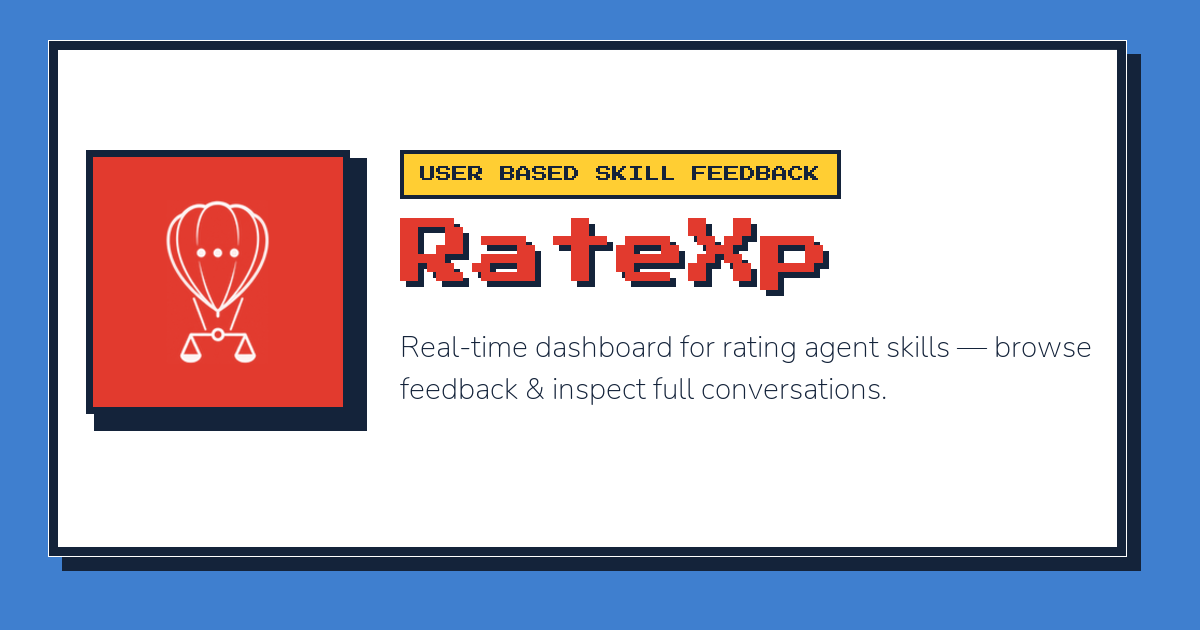
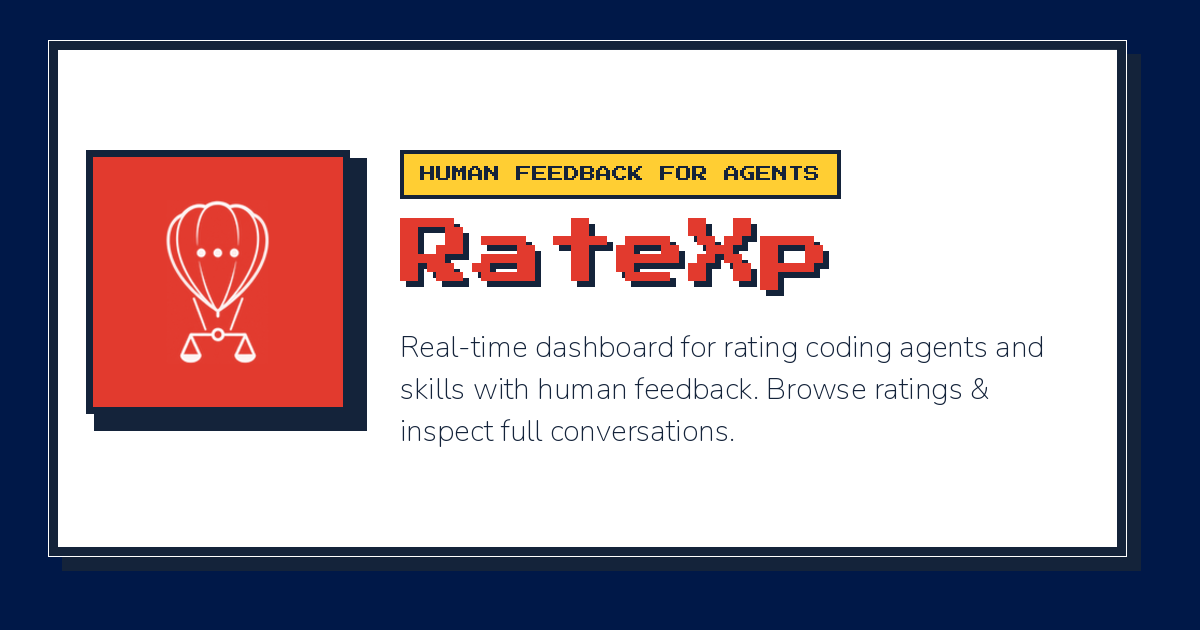
style: update og-image to human feedback for coding agents and skills on the app's navy background, and match the page descriptions

diff --git a/app/FE/index.html b/app/FE/index.html
@@ -12,7 +12,7 @@
     <title>RateXp Feedback</title>
     <meta
       name="description"
-      content="Real-time dashboard for rating agent skills - browse feedback, inspect full conversations, and see the top-rated skills."
+      content="Real-time dashboard for rating coding agents and skills with human feedback. Browse ratings, inspect full conversations, and see the top-rated skills."
     />
 
     <!-- Link-preview cards. Scrapers need a PUBLIC https url and ABSOLUTE image
@@ -23,7 +23,7 @@
     <meta property="og:title" content="RateXp - Skill feedback dashboard" />
     <meta
       property="og:description"
-      content="Real-time dashboard for rating agent skills - browse feedback, inspect full conversations, and see the top-rated skills."
+      content="Real-time dashboard for rating coding agents and skills with human feedback. Browse ratings, inspect full conversations, and see the top-rated skills."
     />
     <meta property="og:image" content="https://ratexp-app.azurewebsites.net/og-image.png" />
     <meta property="og:image:width" content="1200" />
@@ -35,7 +35,7 @@
     <meta name="twitter:title" content="RateXp - Skill feedback dashboard" />
     <meta
       name="twitter:description"
-      content="Real-time dashboard for rating agent skills - browse feedback, inspect full conversations, and see the top-rated skills."
+      content="Real-time dashboard for rating coding agents and skills with human feedback. Browse ratings, inspect full conversations, and see the top-rated skills."
     />
     <meta name="twitter:image" content="https://ratexp-app.azurewebsites.net/og-image.png" />
 
